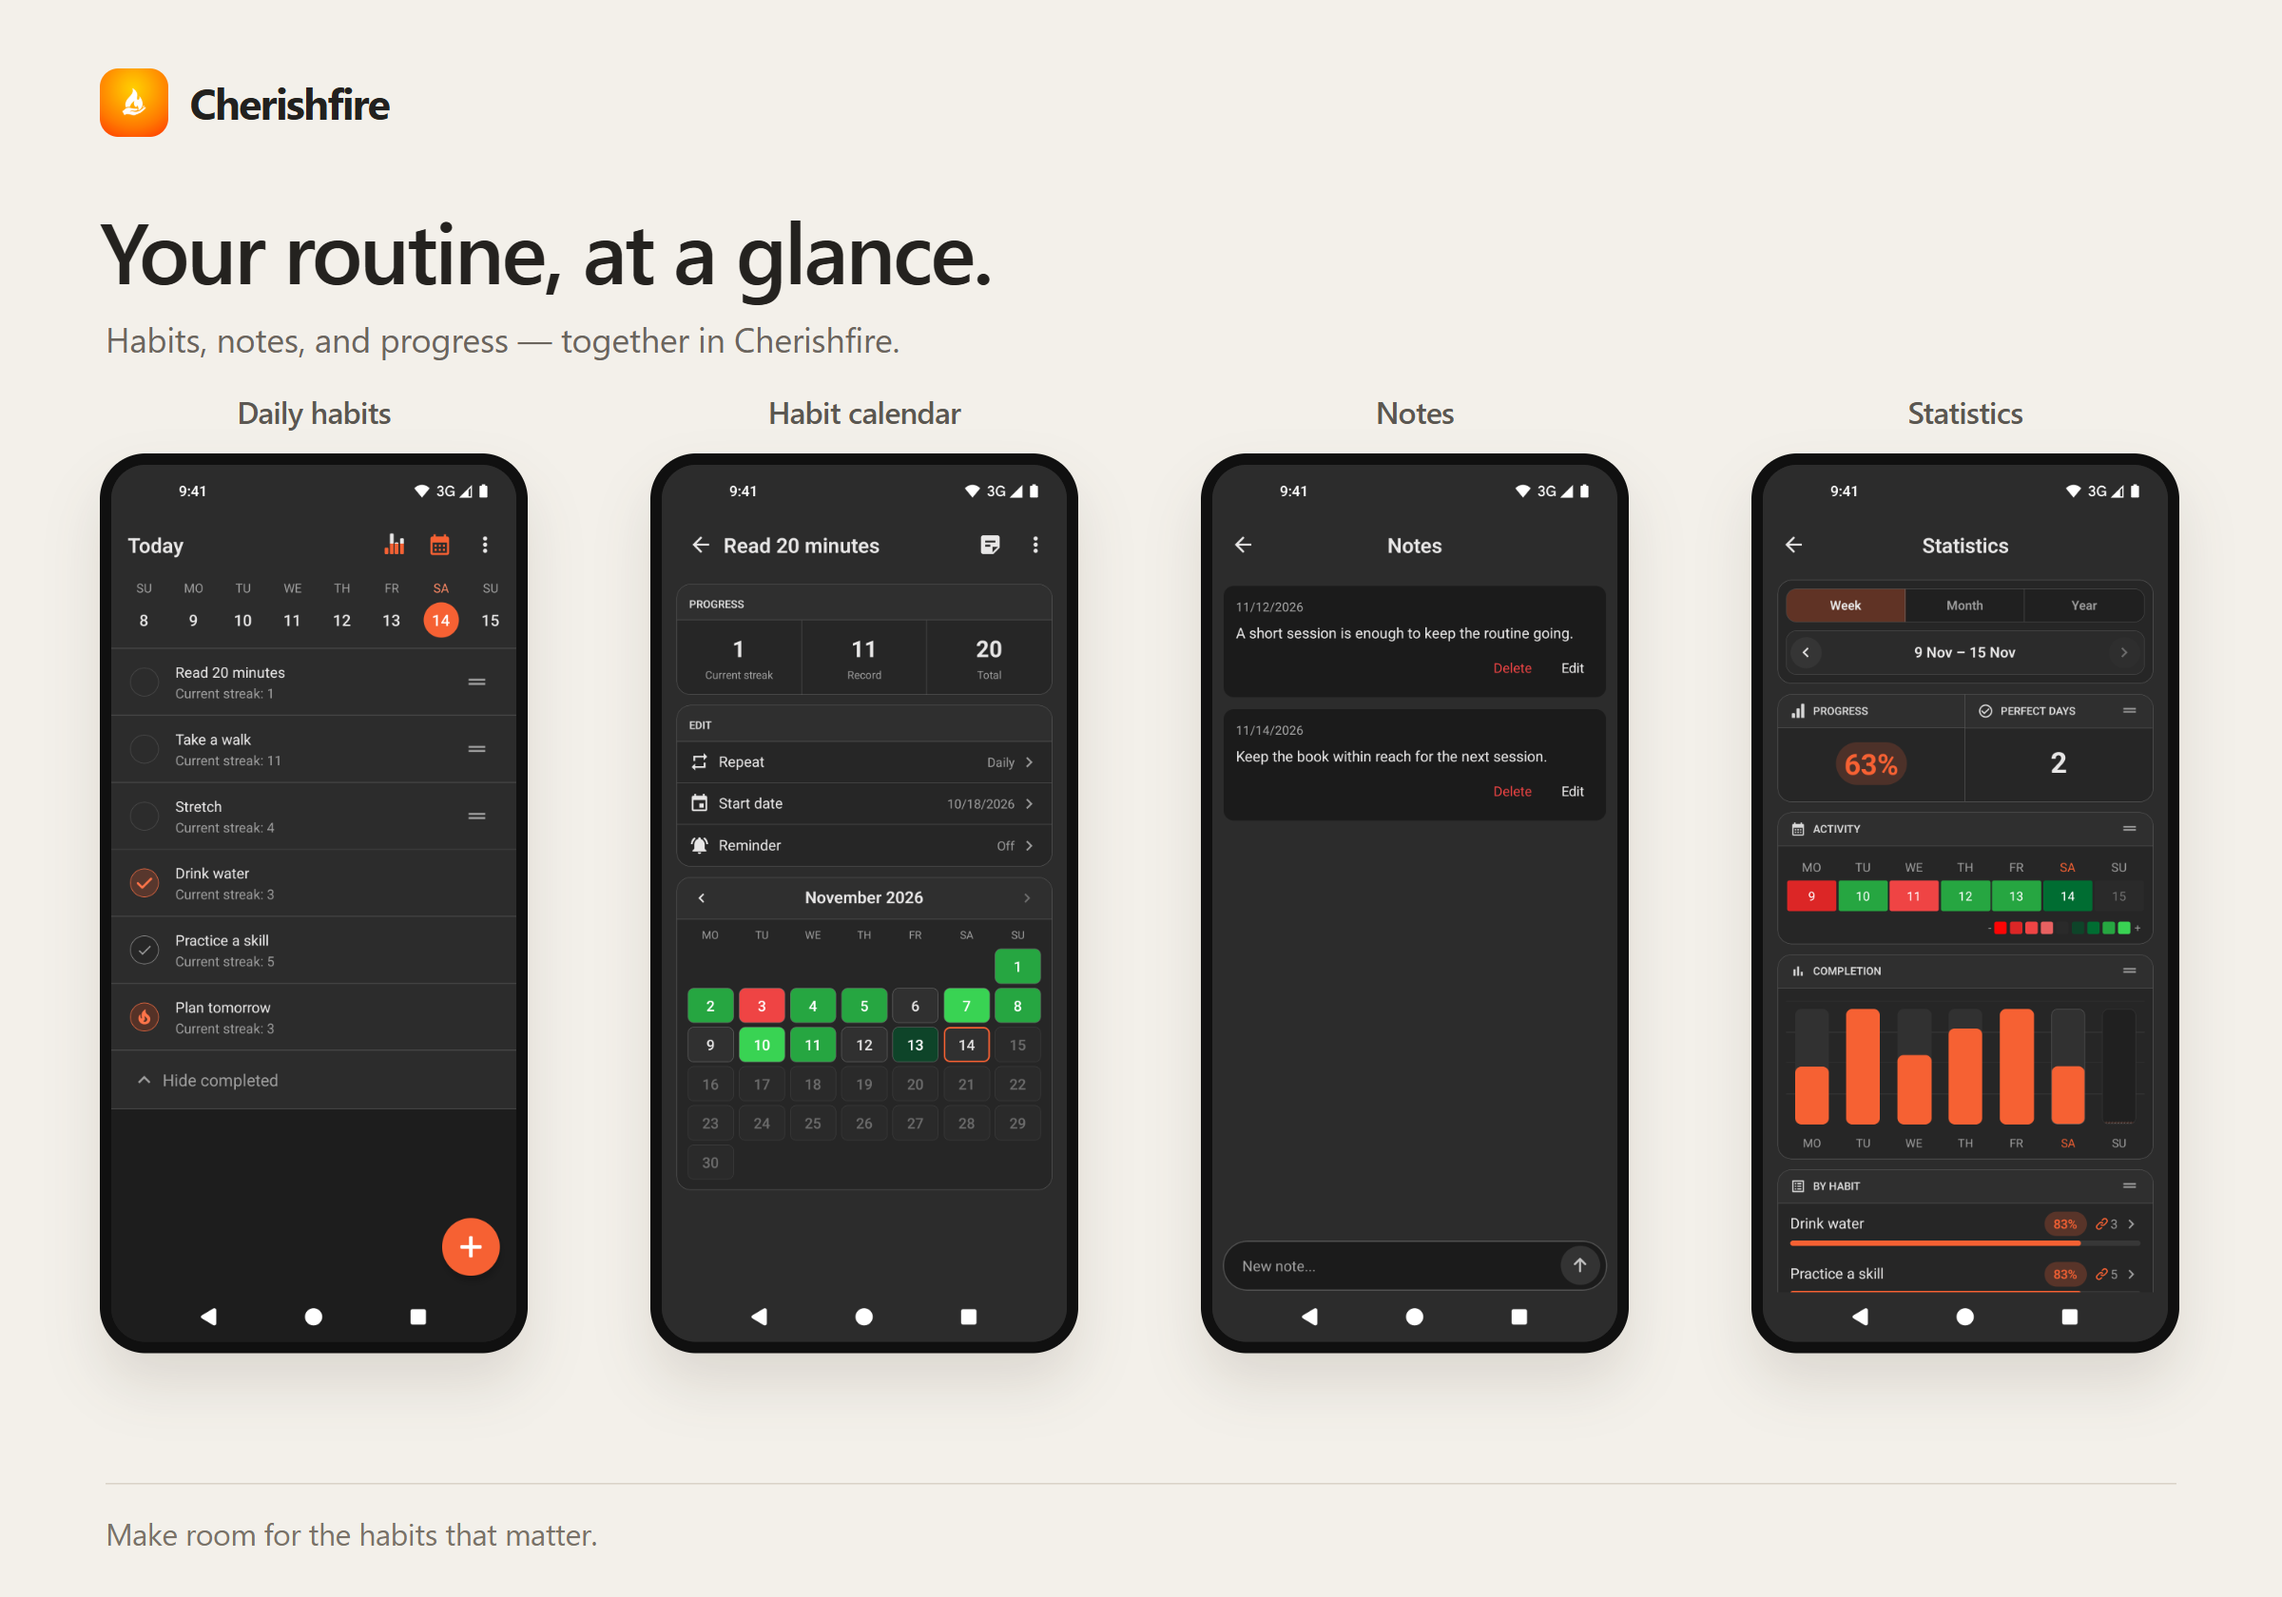
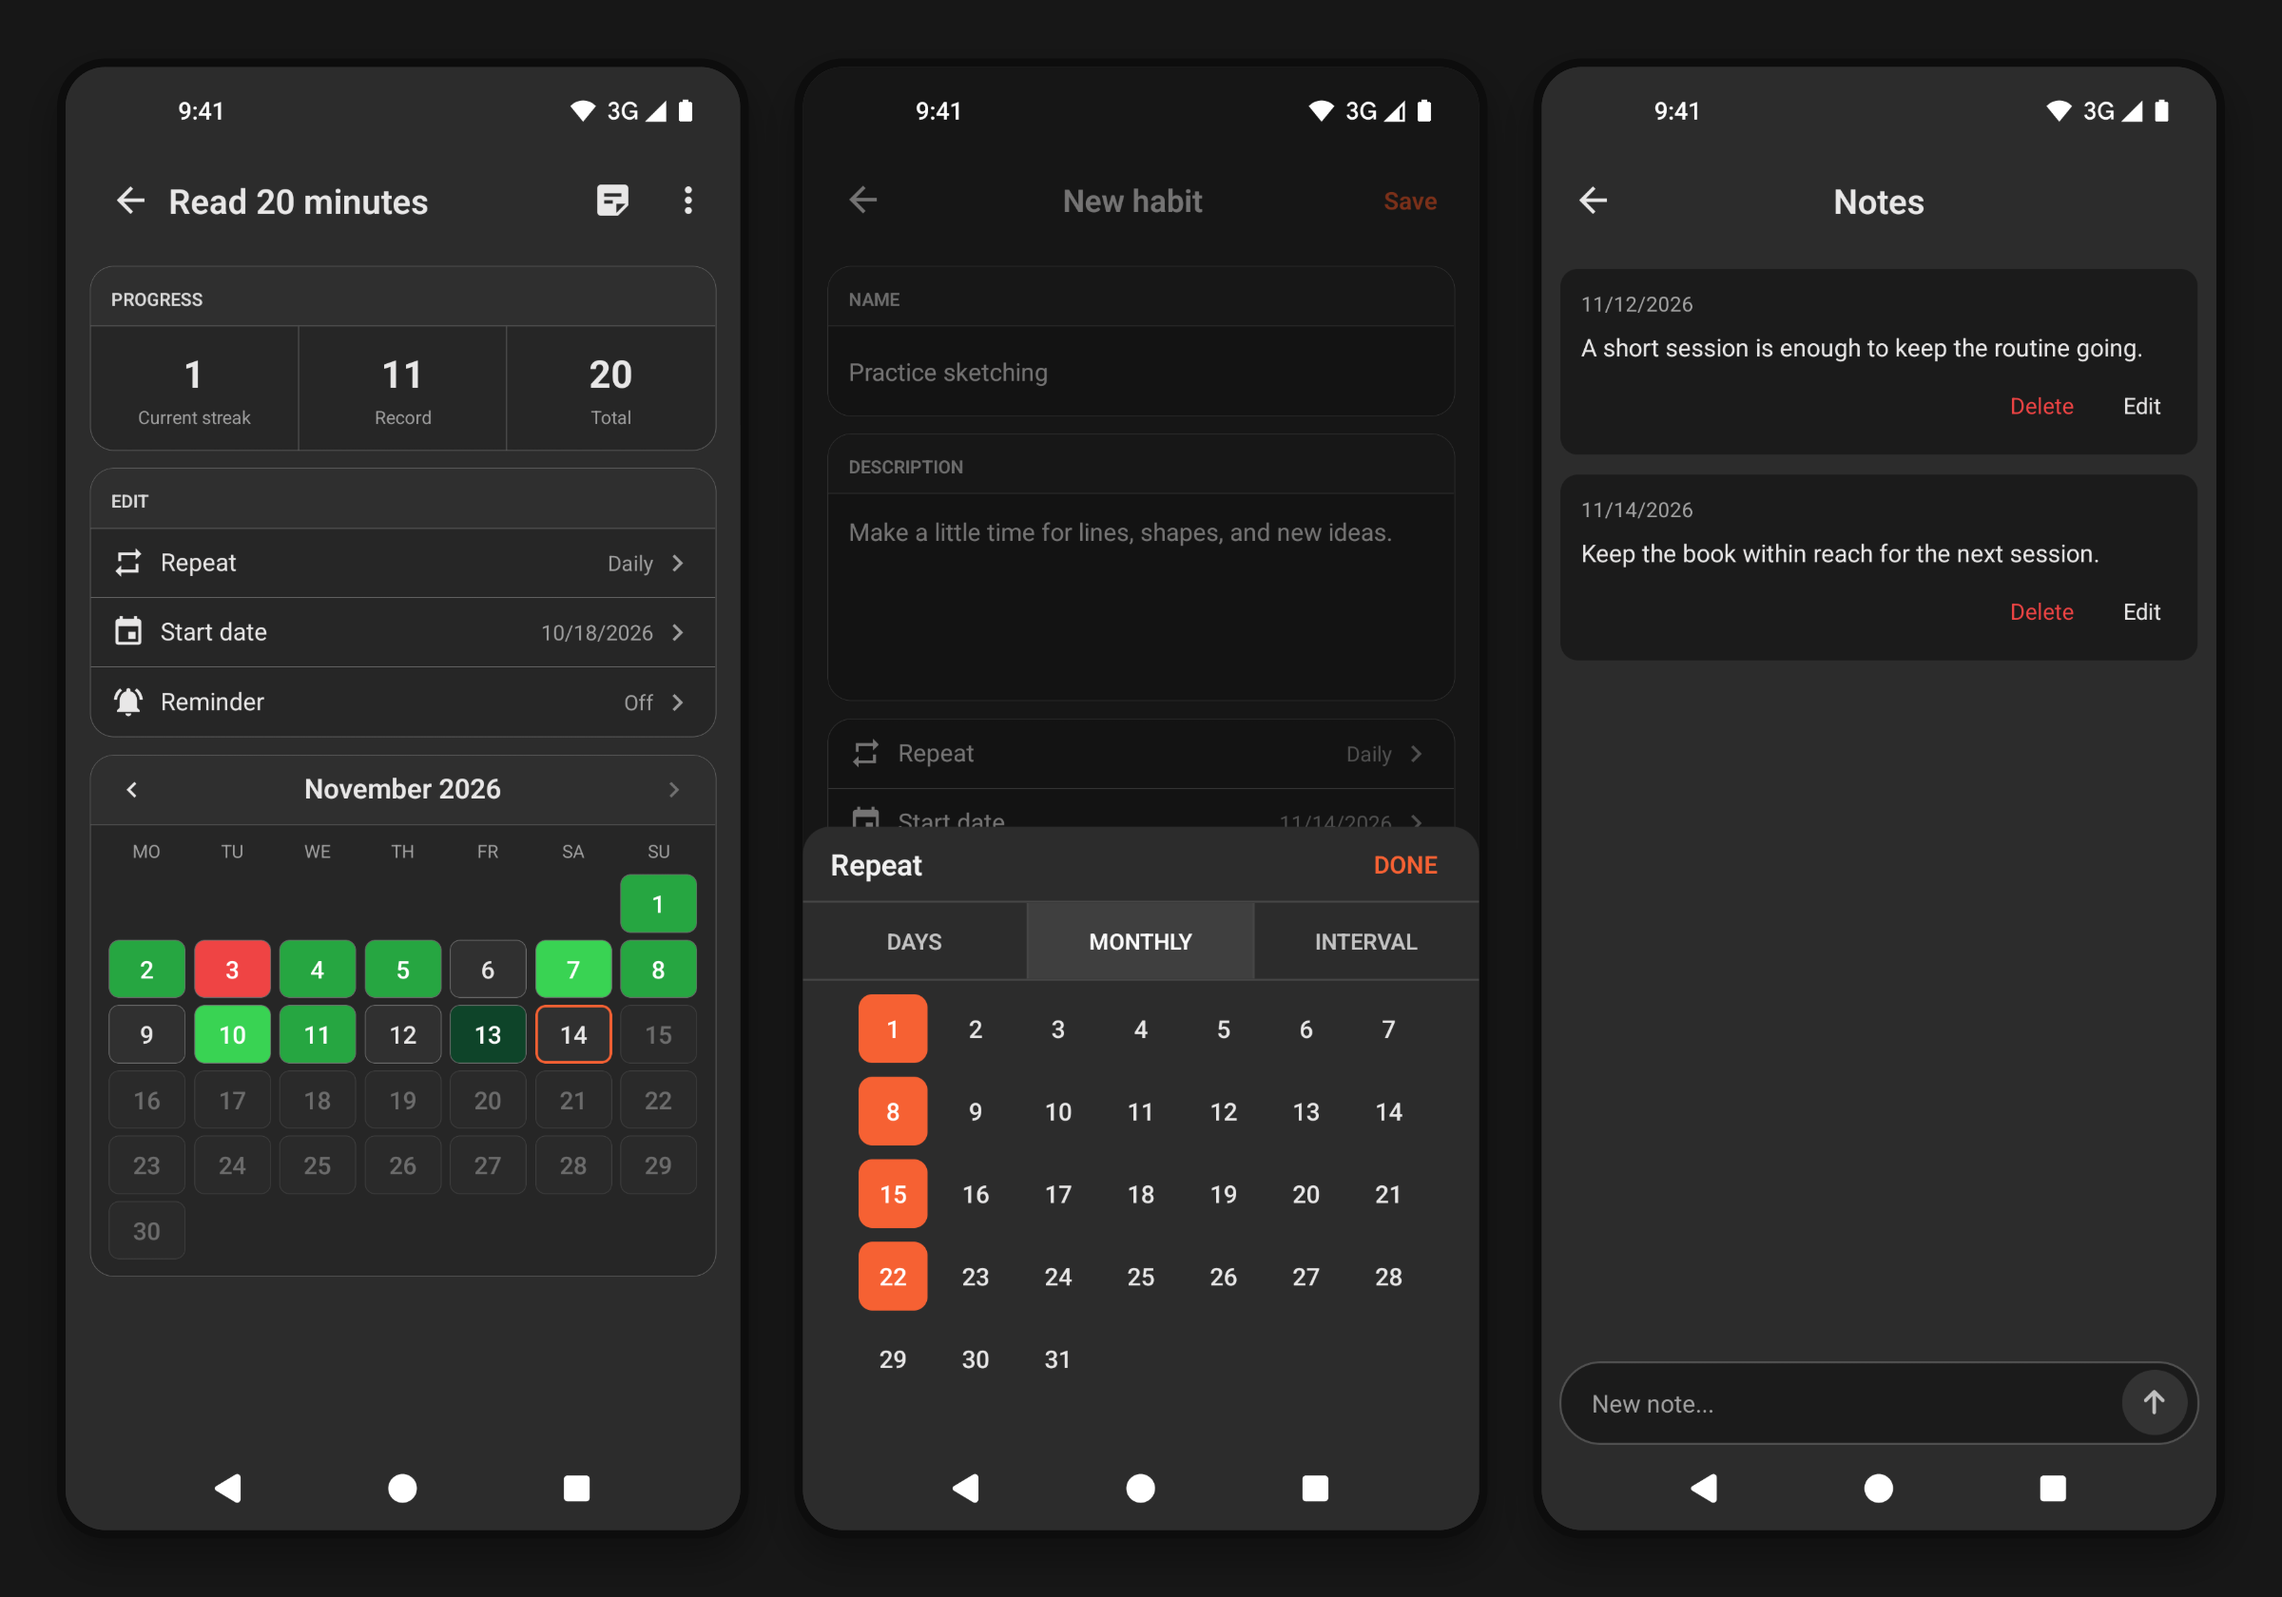
Expand README and simplify screenshot overview

diff --git a/src/features/settings/components/AboutDialog.tsx b/src/features/settings/components/AboutDialog.tsx
@@ -16,7 +16,7 @@ export function AboutDialog({ visible, onClose }: AboutDialogProps) {
   const effectiveMode = useVisualEffectiveMode();
   const isDarkTheme = effectiveMode === "dark";
   const palette = isDarkTheme ? darkTheme : lightTheme;
-  const appVersion = Constants.expoConfig?.version ?? "1.5.112";
+  const appVersion = Constants.expoConfig?.version ?? "1.5.113";
   return (
     <Dialog
       visible={visible}

diff --git a/README.md b/README.md
@@ -4,13 +4,22 @@
 
 An offline habit tracker built with Expo and React Native.
 
-Create repeating habits, track daily outcomes, keep notes, set local reminders,
-and review progress. Habits, history, and settings stay on the device and can
-be exported to or restored from a JSON backup.
+## Features
+
+- Schedule habits daily, on selected days of the week or dates of the month,
+  or at fixed or completion-based intervals.
+- Record Done, Minimum, Maximum, Failure, or Skipped outcomes, with optional
+  reasons for failures and skips.
+- Browse each habit's calendar, current and best streaks, and dated notes.
+- Set multiple local reminder times for each habit.
+- Review weekly, monthly, and yearly statistics, with a separate block order
+  for each period.
+- Archive and restore habits without deleting their history.
+- Export and restore habits, history, notes, and preferences as JSON.
 
 ## Preview
 
-![Cherishfire app preview](Screenshots/cherishfire-overview.png)
+![Habit calendar, monthly repeat settings, and notes](Screenshots/cherishfire-overview.png)
 
 ## Development
 
